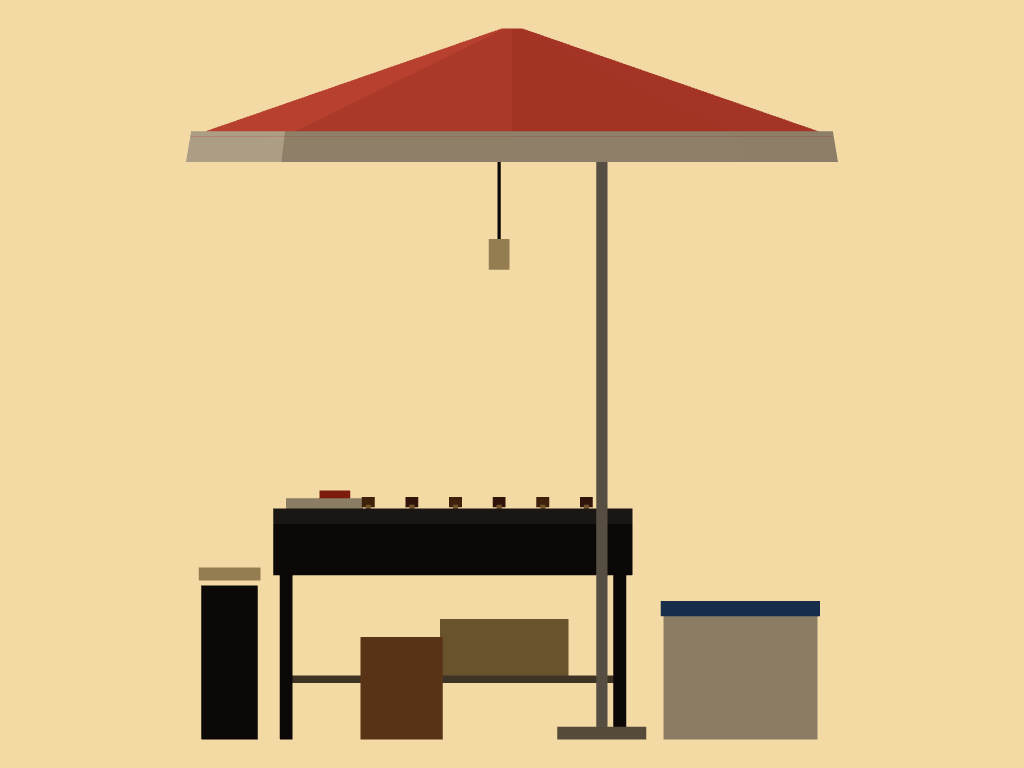
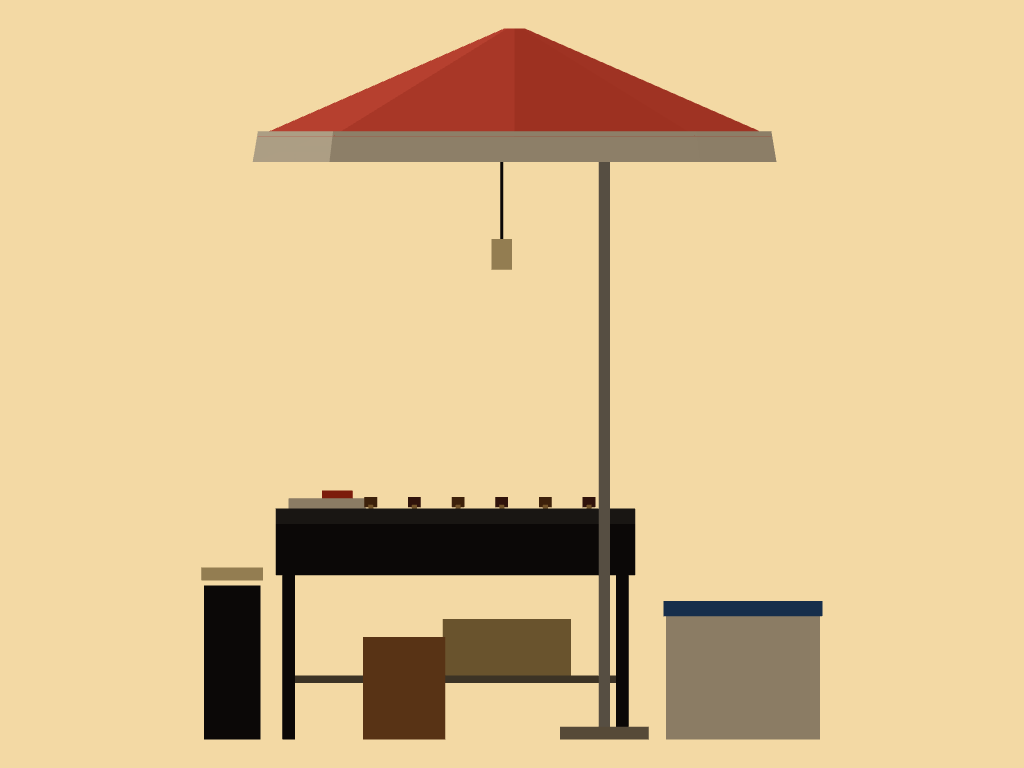
The barber's kiosk stands in from Bode Thomas's edge, and the suya grill's umbrella is smaller

diff --git a/assets-src/prop/suya-grill/build.ts b/assets-src/prop/suya-grill/build.ts
@@ -6,7 +6,7 @@ import { setFootprint } from "@japacity/assets";
 import { beam, box, clutter, cylinder } from "@japacity/assets/kit";
 import { Group } from "three";
 
-export const SUYA_GRILL = { width: 1.4, depth: 0.5, top: 0.86, pole: 2.35, canopy: 1.25 } as const;
+export const SUYA_GRILL = { width: 1.4, depth: 0.5, top: 0.86, pole: 2.35, canopy: 1.0 } as const;
 
 export function buildSuyaGrill(): Group {
   const g = new Group();
